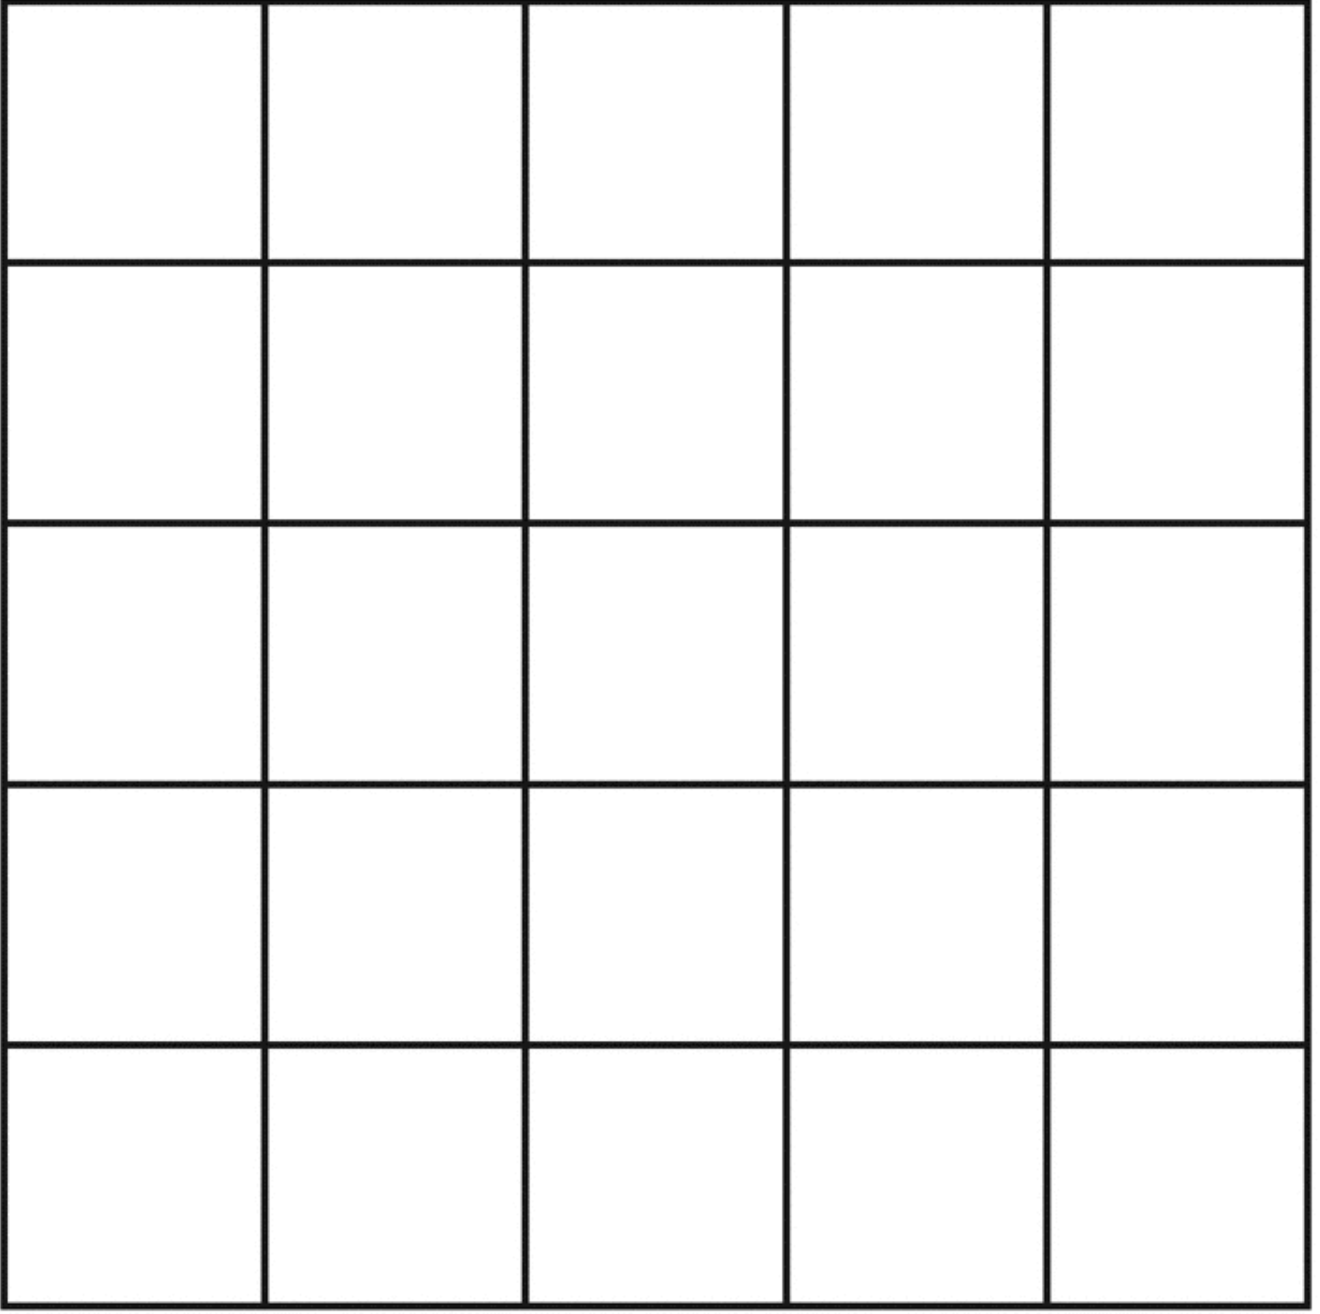
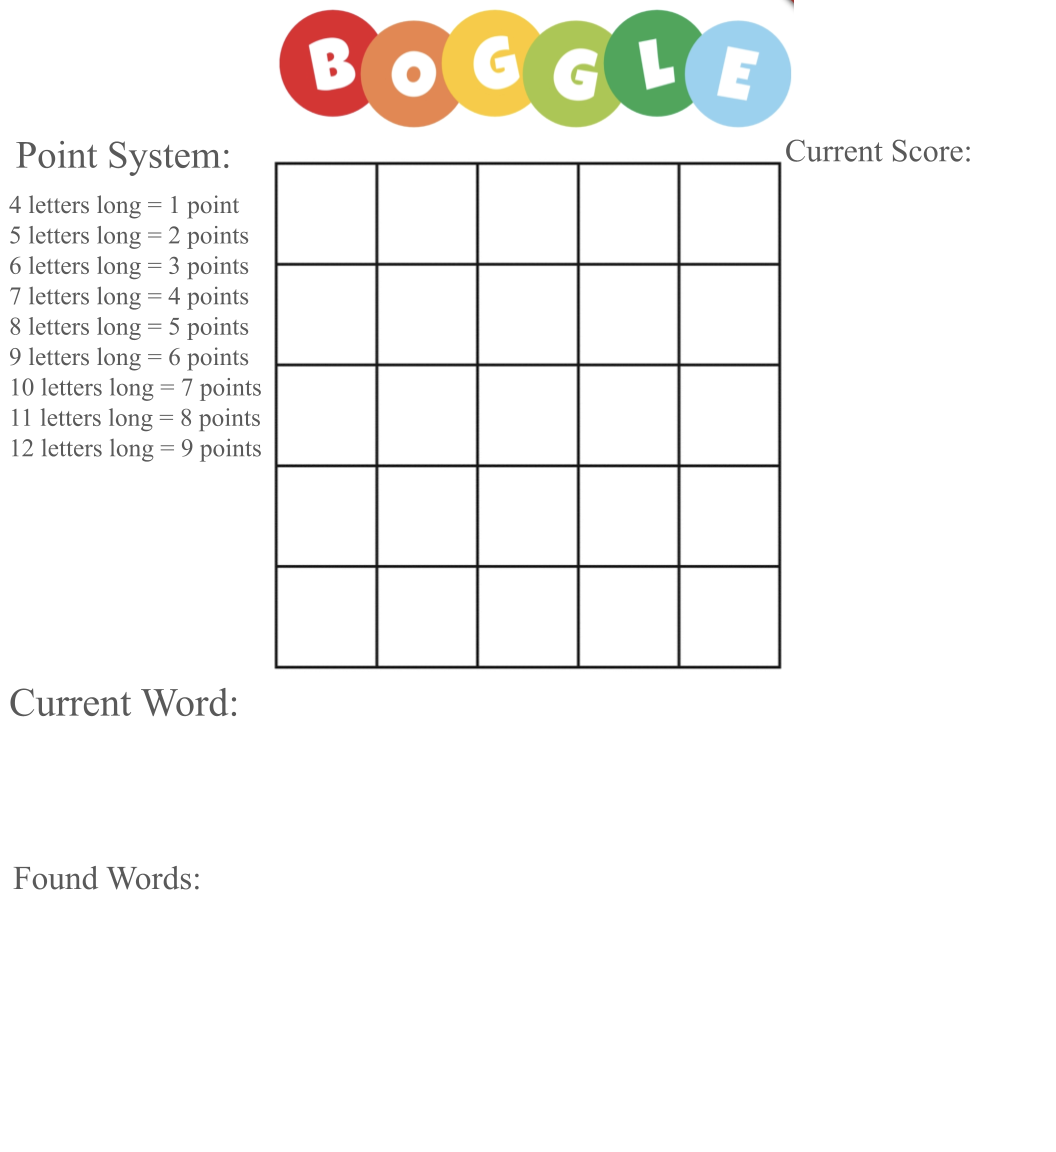
Crafted a new background and got the letters to perfectly align with the board

Changed region(s): [[0.0, 0.0, 1.0, 1.0]]

diff --git a/src/GameViewer.java b/src/GameViewer.java
@@ -7,10 +7,10 @@ public class GameViewer extends JFrame {
     private Image board;
     private GameLetterManager letterManager;
 
-    private int WINDOW_WIDTH = 1000;
+    private int WINDOW_WIDTH = 930;
     private int WINDOW_HEIGHT = 1000;
-    private int STARTING_XCORD = 100;
-    private int STARTING_YCORD = 100;
+    private int STARTING_XCORD = 0;
+    private int STARTING_YCORD = 25;
     private int STARTING_BOARD_XCORD = 750;
     private int STARTING_BOARD_YCORD = 750;
     private int TOTAL_LETTERS = 26;
@@ -30,11 +30,13 @@ public class GameViewer extends JFrame {
     }
     public void paint(Graphics g) {
         g.setColor(Color.black);
-        g.drawImage(board, STARTING_XCORD, STARTING_YCORD, STARTING_BOARD_XCORD, STARTING_BOARD_YCORD,this);
+        g.drawImage(board, STARTING_XCORD, STARTING_YCORD, WINDOW_WIDTH, WINDOW_HEIGHT,this);
+        // get a counter
         for (int i = 0; i < 5; i++) {
             for (int j = 0; j < 5; j++) {
-                g.drawImage(letterManager.getShuffledLetters().get(i).getImage(), 105 * i, 125 * j, 125,125,this);
+                g.drawImage(letterManager.getShuffledLetters().get(i).getImage(), 245 + (j*88),  170 + (i*87), 88,87,this);
             }
+
         }
     }
 }
